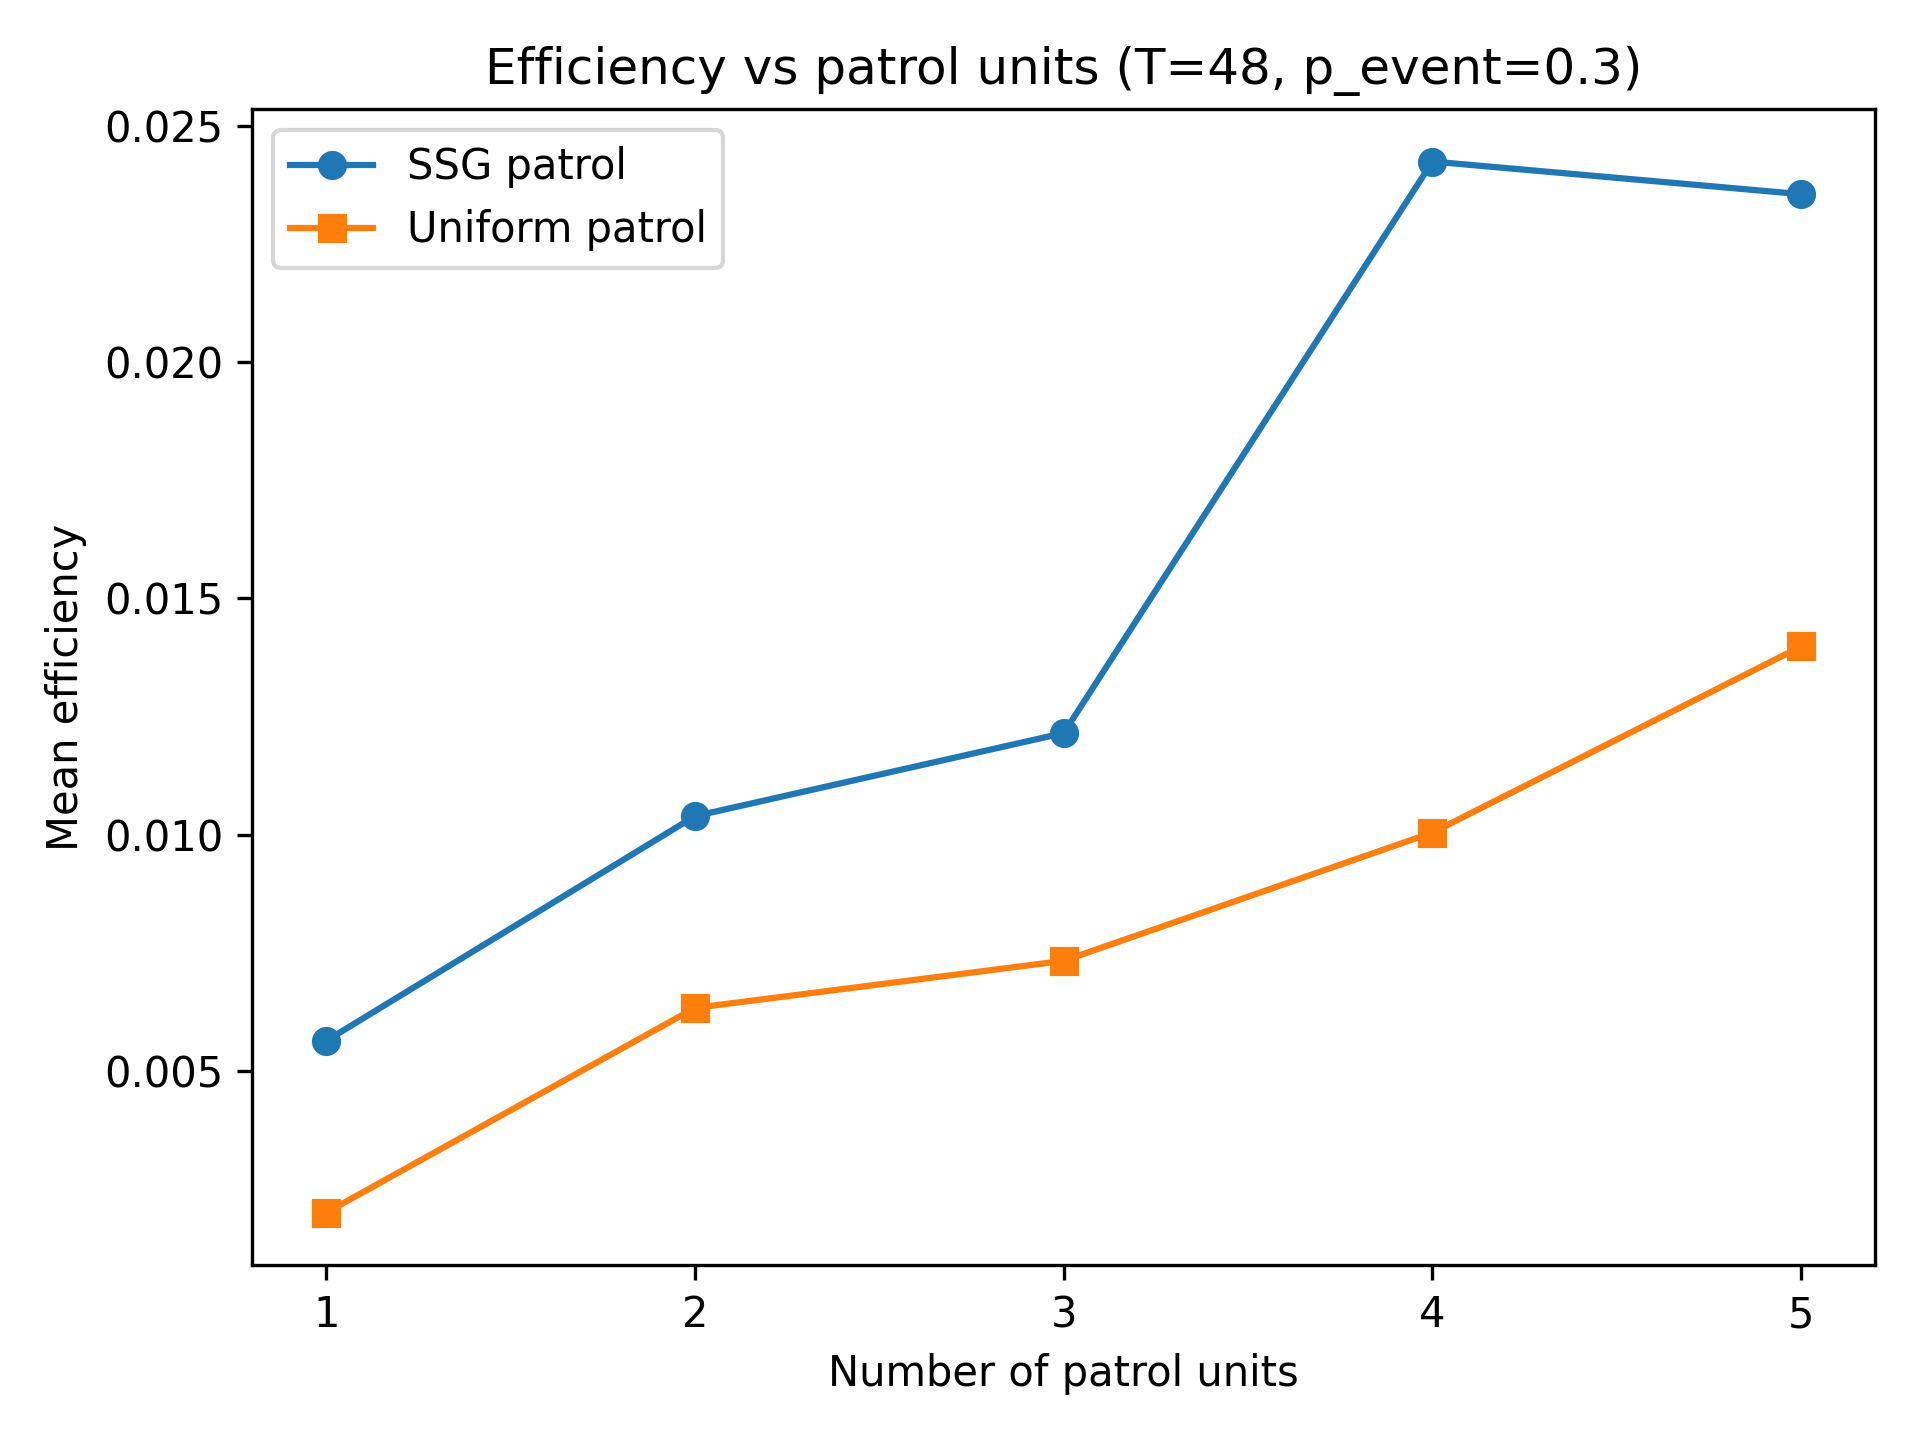
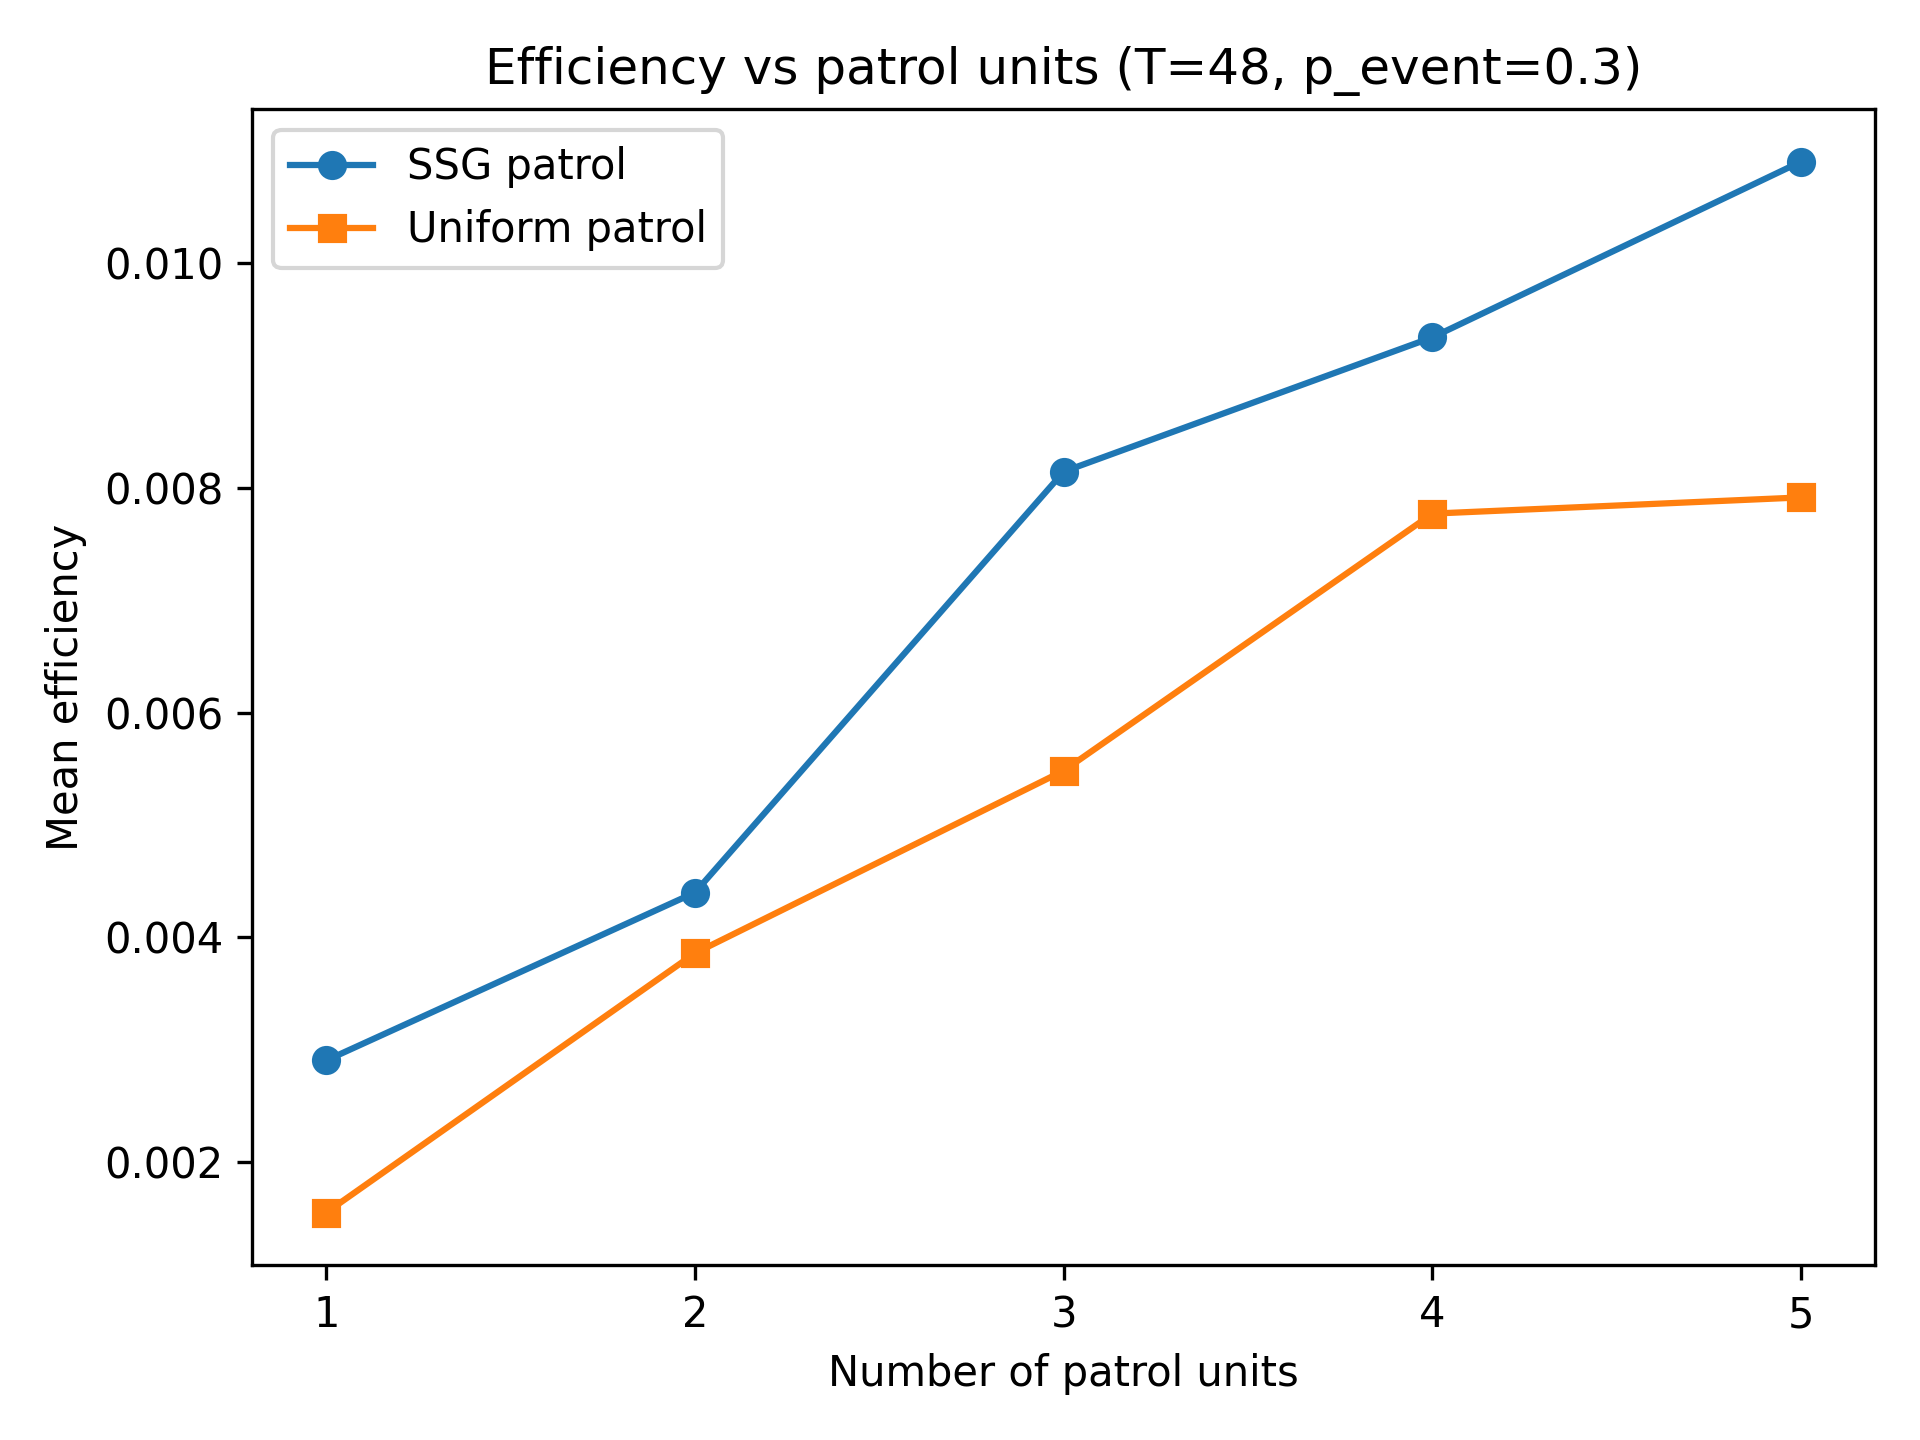
Fixed tiny bugs

diff --git a/generate_patrol_schedule.py b/generate_patrol_schedule.py
@@ -112,7 +112,7 @@ def solve_ssg(R_d, P_d, R_a, P_a, w, K):
 
         Ud_attacked = x[attacked] * R_d[attacked] + (1 - x[attacked]) * P_d[attacked]
         prob = cp.Problem(cp.Maximize(Ud_attacked), constraints)
-        prob.solve()  # let cvxpy pick a solver
+        prob.solve(solver=cp.ECOS)  # let cvxpy pick a solver
 
         if x.value is None or prob.status not in ("optimal", "optimal_inaccurate"):
             continue
@@ -275,7 +275,7 @@ def main():
     node_list, risk = get_node_list_and_risk(G)
 
     # --- Stackelberg game ---
-    R_d, P_d, R_a, P_a = build_payoffs_from_risk(risk, 1.0, 1.0, 1.0)
+    R_d, P_d, R_a, P_a = build_payoffs_from_risk(risk, 1.0, 1.0, 1.0, 1.0)
     K = 10.0
     w = np.ones_like(risk)
 
